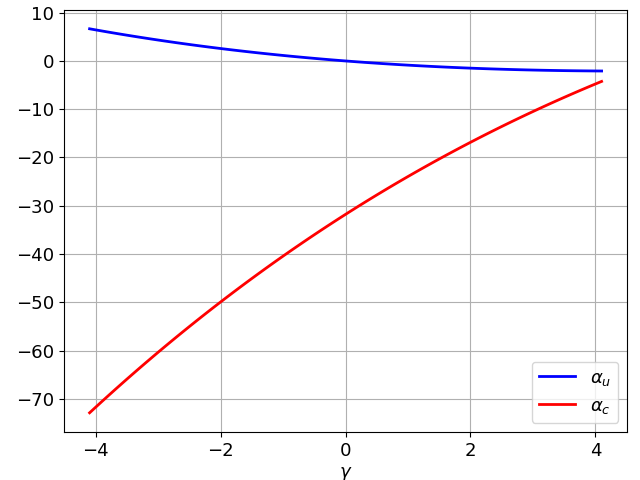
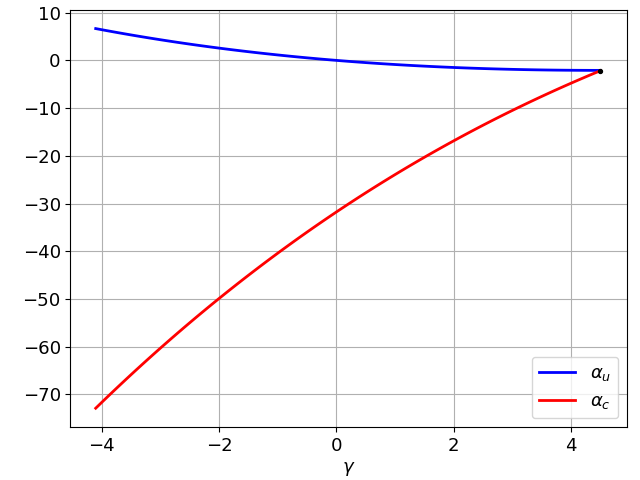
Обновлены численные результаты, добавлена возможность подсчета амплитуды колебаний для обоих случаев потери устойчивости, небольшие подправления в скриптах для численного счета

diff --git a/Scripts/oscillating_draw_phid_dependencies.py b/Scripts/oscillating_draw_phid_dependencies.py
@@ -4,10 +4,10 @@ import matplotlib.pyplot as plt
 import os
 
 
-x0 = 0.25
-x_ticks = np.arange(-4, 5, 1)
-DATA_PATH = 'C:/_Repositories/KaschenkoEquation/Tracer/Results/x0=0.25 (u13)'
-CSV_FILE = 'x0=0.25_analytical.csv'
+x0 = 0.83
+x_ticks = np.arange(-4, 6, 1)
+DATA_PATH = 'C:/_Repositories/KaschenkoEquation/Tracer/Results/x0=0.83'
+CSV_FILE = 'x0=0.83_analytical.csv'
 
 
 def phi_o(g, a, w, x0):
@@ -34,19 +34,20 @@ def d_o(g, a, w, x0):
 
 
 def calc_coefs_normal_form(gs, ws, alphs):
-    phis, ds = [], []
+    phis, ds, amps = [], [], []
     for idx in range(len(gammas)):
         g = gs[idx]
         w = ws[idx]
         a = alphs[idx]
         phis.append(phi_o(g, a, w, x0))
         ds.append(d_o(g, a, w, x0))
-    return phis, ds
+        amps.append(np.sqrt(abs(phis[-1]/ds[-1])))
+    return phis, ds, amps
 
 
-def visualize_dependencies(gs, phis, ds):
+def visualize_dependencies(gs, phis, ds, amps):
     plt.rcParams.update({'font.size': 13})
-    plt.subplots_adjust(left=0.1, bottom=0.1, right=0.98, top=0.98)
+    plt.subplots_adjust(left=0.11, bottom=0.11, right=0.98, top=0.94)
     plt.xlabel('$\gamma$')
     plt.xticks(x_ticks)
     plt.grid()
@@ -55,15 +56,23 @@ def visualize_dependencies(gs, phis, ds):
     plt.savefig(os.path.join(DATA_PATH, 'oscillating_phi0.png'))
     plt.clf()
     plt.xticks(x_ticks)
+    plt.xlabel('$\gamma$')
     plt.grid()
     plt.plot(gs, ds, label='$d_0$', color='darkorange', linewidth=2)
     plt.legend()
     plt.savefig(os.path.join(DATA_PATH, 'oscillating_d0.png'))
+    plt.clf()
+    plt.xticks(x_ticks)
+    plt.xlabel('$\gamma$')
+    plt.grid()
+    plt.plot(gs, amps, label='$A_c$', color='crimson', linewidth=2)
+    plt.legend()
+    plt.savefig(os.path.join(DATA_PATH, 'oscillating_amplutude.png'))
 
 
 df = pd.read_csv(os.path.join(DATA_PATH, CSV_FILE), sep=';')
 gammas = list(df['gamma'])
 omegas = list(df['w'])
 alphas = list(df['alpha_c'])
-phis, ds = calc_coefs_normal_form(gammas, omegas, alphas)
-visualize_dependencies(gammas, phis, ds)
+phis, ds, amps = calc_coefs_normal_form(gammas, omegas, alphas)
+visualize_dependencies(gammas, phis, ds, amps)

diff --git a/Scripts/divergent_draw_amplitude_dependency.py b/Scripts/divergent_draw_amplitude_dependency.py
@@ -1,0 +1,63 @@
+import numpy as np
+import matplotlib.pyplot as plt
+
+
+x0 = 0.75
+g_min = -4.1
+g_max = 4.308
+h = 0.001
+
+
+def alpha_u(g, x0):
+    if g <= 0:
+        mu = np.sqrt(-g)
+        return mu*np.sinh(mu)/np.cosh(mu*x0)
+    else:
+        mu = np.sqrt(g)
+        return -mu*np.sin(mu)/np.cos(mu*x0)
+
+
+def phi_func(g, a, x0):
+    if g <= 0:
+        mu = np.sqrt(-g)
+        A = mu*np.cosh(mu) + np.sinh(mu) - a*x0*np.sinh(mu*x0)
+        B = 2*mu*np.cosh(mu*x0)
+    else:
+        mu = np.sqrt(g)
+        A = mu*np.cos(mu) + np.sin(mu) - a*x0*np.sin(mu*x0)
+        B = 2*mu*np.cos(mu*x0)
+    return B/A
+
+
+def d_func(g, a, x0):
+    if g <= 0:
+        mu = np.sqrt(-g)
+        A = 16*(mu*np.cosh(mu) + np.sinh(mu) - a*x0*np.sinh(mu*x0))
+        B = -3*mu*mu*np.sinh(3*mu) - 12*np.sinh(mu) - 12*mu*np.cosh(mu) - a*mu*np.cosh(3*mu*x0) + 12*a*x0*np.sinh(mu*x0)
+    else:
+        mu = np.sqrt(g)
+        A = 16*(mu*np.cos(mu) + np.sin(mu) - a*x0*np.sin(mu*x0))
+        B = 3*mu*mu*np.sin(3*mu) - 12*np.sin(mu) - 12*mu*np.cos(mu) - a*mu*np.cos(3*mu*x0) + 12*a*x0*np.sin(mu*x0)
+    return B/A
+
+
+def amplitude_func(g, a, x0):
+    return np.sqrt(abs(phi_func(g, a, x0)/d_func(g, a, x0)))
+
+
+gammas = list(np.arange(g_min, g_max, h))
+amps = []
+for g in gammas:
+    a = alpha_u(g, x0)
+    amps.append(amplitude_func(g, a, x0))
+plt.figure('divergent_amplitude_x0={:.5},g[{:.5},{:.5}]'.format(x0, g_min, g_max))
+plt.rcParams.update({'font.size': 13})
+plt.rcParams['savefig.directory'] = '../Tracer/Results'
+plt.subplots_adjust(left=0.1, bottom=0.11, right=0.98, top=0.98)
+plt.xlabel('$\gamma$')
+plt.grid()
+plt.plot(gammas, amps, label='$A_u$', color='crimson', linewidth=2)
+plt.legend()
+#x1,x2,y1,y2 = plt.axis()
+#plt.axis((x1,4.902,y1,y2))
+plt.show()

diff --git a/Scripts/divergent_draw_phid_dependencies.py b/Scripts/divergent_draw_phid_dependencies.py
@@ -2,9 +2,9 @@ import numpy as np
 import matplotlib.pyplot as plt
 
 
-x0 = 0.78
-g_min = -4.1
-g_max = 4.1
+x0 = 0.75
+g_min = 3.0
+g_max = 4.308
 h = 0.001
 
 gammas = list(np.arange(g_min, g_max, h))
@@ -43,14 +43,12 @@ def d_func(g, a, x0):
     return B/A
 
 
-plt.figure('divergent_phi0d0_x0={:.3},g[{:.3},{:.3}]'.format(x0, g_min, g_max))
+plt.figure('divergent_phi0d0_x0={:.5},g[{:.5},{:.5}]'.format(x0, g_min, g_max))
 plt.rcParams.update({'font.size': 13})
 plt.rcParams['savefig.directory'] = '../Tracer/Results'
 plt.xlabel('$\gamma$')
 plt.grid(True)
-alphas = []
-phis = []
-ds = []
+alphas, phis, ds, amps = [], [], [], []
 for g in gammas:
     alphas.append(alpha_u(g, x0))
 for idx in range(len(gammas)):
@@ -60,8 +58,10 @@ for idx in range(len(gammas)-1, 0, -1):
     if ds[idx]*ds[idx-1] < 0.0:
         print('gamma_l = {:.6}'.format(gammas[idx]))
         break
-plt.subplots_adjust(left=0.1, bottom=0.1, right=0.98, top=0.98)
-plt.plot(gammas, phis, label='$\phi_0$', color='darkcyan', linewidth=2)
-#plt.plot(gammas, ds, label='$d_0$', color='darkorange', linewidth=2)
+plt.subplots_adjust(left=0.12, bottom=0.1, right=0.98, top=0.98)
+#plt.plot(gammas, phis, label='$\phi_0$', color='darkcyan', linewidth=2)
+plt.plot(gammas, ds, label='$d_0$', color='darkorange', linewidth=2)
+#x1,x2,y1,y2 = plt.axis()
+#plt.axis((x1,4.902,y1,y2))
 plt.legend()
 plt.show()

diff --git a/Scripts/plot_alphacr_dependency.py b/Scripts/plot_alphacr_dependency.py
@@ -4,9 +4,9 @@ import matplotlib.pyplot as plt
 import os
 
 
-x0 = 0.25
-DATA_PATH = 'C:/_Repositories/KaschenkoEquation/Tracer/Results/x0=0.25 (u13)'
-CSV_FILE = 'x0=0.25_analytical.csv'
+x0 = 0.83
+DATA_PATH = 'C:/_Repositories/KaschenkoEquation/Tracer/Results/x0=0.83'
+CSV_FILE = 'x0=0.83_analytical.csv'
 
 
 def get_alpha_u(g, x0):
@@ -20,12 +20,18 @@ def get_alpha_u(g, x0):
 
 def visualise_alphas(gs, aus, acs):
     plt.rcParams.update({'font.size': 13})
-    plt.subplots_adjust(left=0.1, bottom=0.1, right=0.98, top=0.98)
+    plt.subplots_adjust(left=0.11, bottom=0.11, right=0.98, top=0.98)
     plt.xlabel('$\gamma$')
     plt.grid()
     plt.plot(gs, aus, label=r'$\alpha_u$', color='b', linewidth=2)
     plt.plot(gs, acs, label=r'$\alpha_c$', color='red', linewidth=2)
-    plt.legend()
+    plt.legend(loc='lower right')
+    #plt.legend()
+    plt.scatter(gs[0], acs[0], color='black', s=8, zorder=3)
+    x1,x2,y1,y2 = plt.axis()
+    plt.axis((x1,x2,-255.0, y2))
+    #print(aus[0])
+    #plt.show()
     plt.savefig(os.path.join(DATA_PATH, 'alphas.png'))
 
 

diff --git a/Scripts/divergent_search_alphacr.py b/Scripts/divergent_search_alphacr.py
@@ -1,0 +1,36 @@
+import numpy as np
+import matplotlib.pyplot as plt
+
+
+x0 = 0.17
+g_min = -4.1
+g_max = 4.224
+h = 0.001
+
+gammas = list(np.arange(g_min, g_max, h))
+
+
+def alpha_u(g, x0):
+    if g <= 0:
+        mu = np.sqrt(-g)
+        return mu*np.sinh(mu)/np.cosh(mu*x0)
+    else:
+        mu = np.sqrt(g)
+        return -mu*np.sin(mu)/np.cos(mu*x0)
+
+
+aus = []
+for g in gammas:
+    aus.append(alpha_u(g, x0))
+    print('{:.5};{:.6}'.format(g, aus[-1]))
+for idx in range(len(aus) - 1, 0, -1):
+    if aus[idx] * aus[idx - 1] < 0.0:
+        print('gamma_^ = {:.6}'.format(gammas[idx]))
+        break
+plt.rcParams.update({'font.size': 13})
+plt.subplots_adjust(left=0.1, bottom=0.1, right=0.98, top=0.98)
+plt.xlabel('$\gamma$')
+plt.grid()
+plt.plot(gammas, aus, label=r'$\alpha_u$', color='b', linewidth=2)
+plt.legend()
+plt.show()

diff --git a/Scripts/oscillating_auto_search_alphacr.py b/Scripts/oscillating_auto_search_alphacr.py
@@ -3,11 +3,11 @@ import math
 
 
 EPS = 0.000001
-X_0 = 0.25
-gamma_start = 0.0
-gamma_end = -4.2
-h = -0.1
-w_pred = 16.156
+X_0 = 0.83
+gamma_start = 3.5
+gamma_end = 3.555
+h = 0.001
+w_pred = 379.178
 
 
 def sign_func(w):
@@ -58,7 +58,7 @@ def output_data(out_data):
     dict_keys = list(sorted(out_data.keys(), reverse=True))
     for gamma in dict_keys:
         w, alpha_c = out_data[gamma][0], out_data[gamma][1]
-        print('{:.3};{:.6};{:.6}'.format(gamma, w, alpha_c))
+        print('{:.5};{:.6};{:.6}'.format(gamma, w, alpha_c))
 
 
 gamma = gamma_start + h

diff --git a/Tracer/Results/x0=0.33/README.md b/Tracer/Results/x0=0.33/README.md
@@ -1,1 +1,5 @@
 u17
+x0 ~ 1/3
+
+H ~ [4.773, gamma_*]
+gamma_* ~ 4.895

diff --git a/Tracer/Results/x0=0.50/README.md b/Tracer/Results/x0=0.50/README.md
@@ -1,1 +1,5 @@
 ~u25
+x0 = 1/2
+
+H ~ [6.485, 15.792]
+gamma_* ~ 16.4

diff --git a/Tracer/Results/x0=0.00/README.md b/Tracer/Results/x0=0.00/README.md
@@ -1,1 +1,5 @@
 ~u1
+x0 = 0
+
+H ~ [4.039, gamma_*]
+gamma_* ~ 4.115

diff --git a/Tracer/Results/x0=0.17/README.md b/Tracer/Results/x0=0.17/README.md
@@ -1,1 +1,5 @@
 u9
+x0 ~ 1/6
+
+H ~ [4.224, gamma_*]
+gamma_* ~ 4.28

diff --git a/Tracer/Results/x0=0.25/README.md b/Tracer/Results/x0=0.25/README.md
@@ -1,1 +1,5 @@
 u13
+x0 = 1/4
+
+H ~ [4.446, gamma_*]
+gamma_* ~ 4.5

diff --git a/Tracer/Results/x0=0.67/README.md b/Tracer/Results/x0=0.67/README.md
@@ -1,1 +1,5 @@
 u34
+x0 ~ 2/3
+
+H ~ []
+gamma_* ~ 5.361
